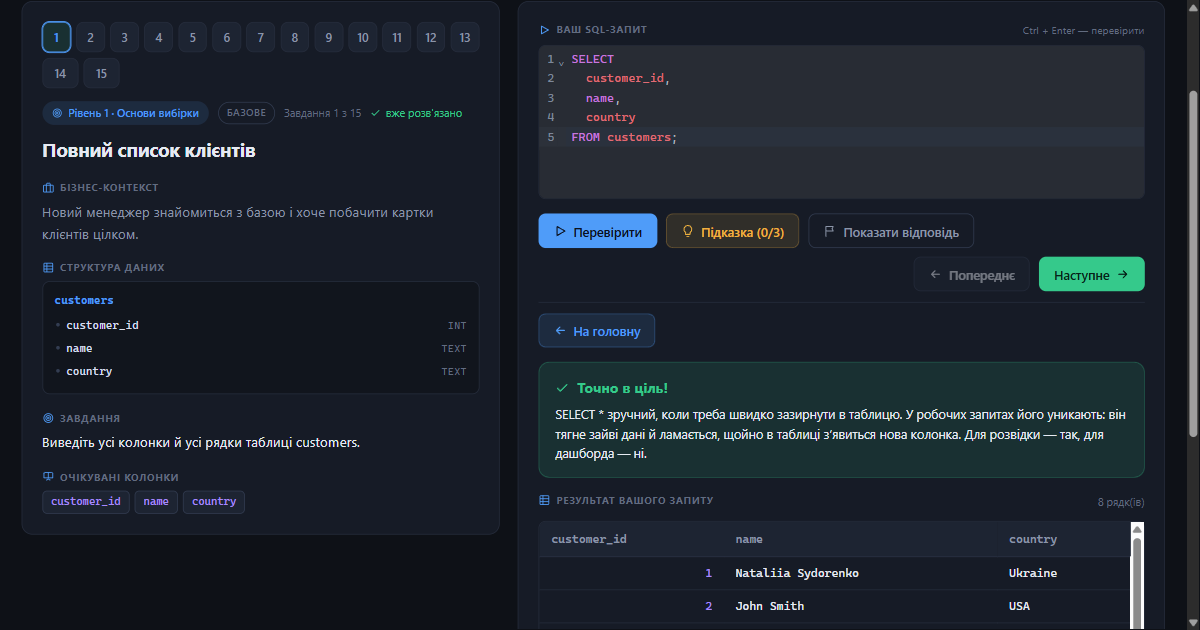
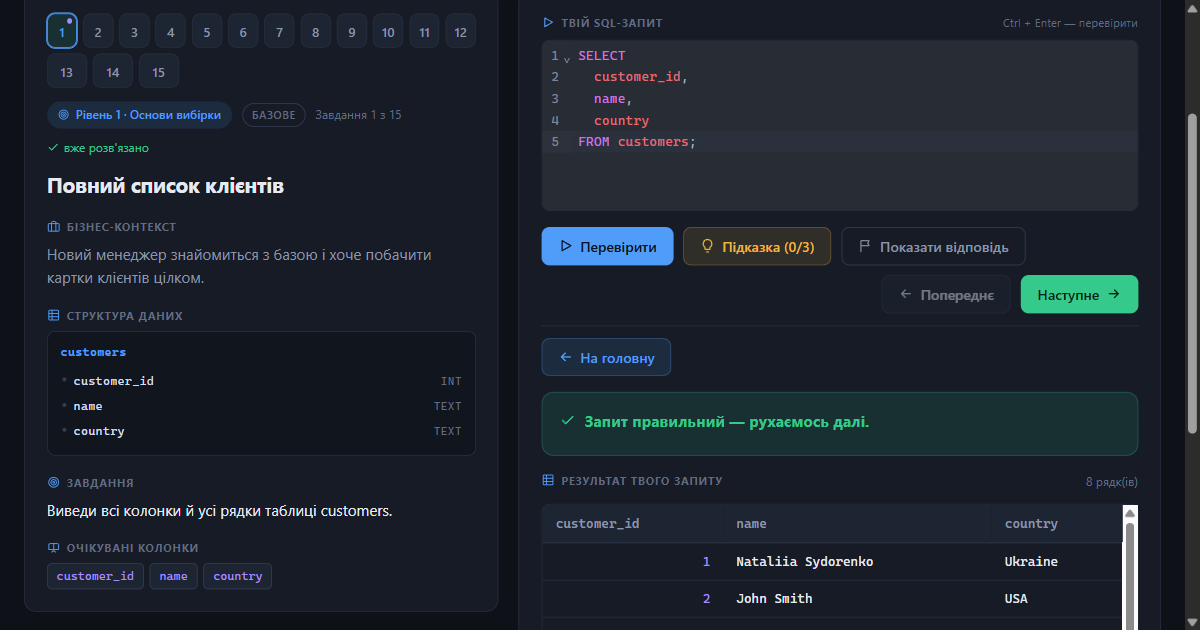
README і обкладинка приведені до поточного стану
Прибрано «пояснення після кожної відповіді»: після перевірки тренажер
показує лише вердикт, а розбір відкриває кнопка «Показати відповідь».
Екран завершення рівня перейменовано на «Ти тепер вмієш».

Дописано те, чого в README не було: пісочниця (її не згадували взагалі),
кнопка «Виконати запит» у теорії, приклад на кожну конструкцію з назви
теми й редагування нотатки просто в списку.

og-cover.png перезнято: на старому скриншоті був підпис «ВАШ SQL-ЗАПИТ»
і абзац пояснення під «Точно в ціль!» — обидва вже не відповідають UI.

diff --git a/README.md b/README.md
@@ -8,7 +8,7 @@
 
 ## Про тренажер
 
-Веб-тренажер для практики SQL: 125 завдань, розкладених по 8 рівнях, з бізнес-контекстом, трьома підказками та поясненням після кожної відповіді.
+Веб-тренажер для практики SQL: 125 завдань, розкладених по 8 рівнях, з бізнес-контекстом і трьома підказками. Після перевірки тренажер демонструє вердикт — правильно чи ні. У разі потреби варіант правильний із поясненням можна переглянути клікнувши кнопку «Показати відповідь».
 
 Запити виконуються справжнім **PostgreSQL** прямо в браузері (через [PGlite](https://pglite.dev), скомпільований у WebAssembly). Це не емуляція й не спрощений діалект, а той самий Postgres, який використовують у реальних проєктах: з `DATE_TRUNC`, `EXTRACT`, віконними функціями та його ж повідомленнями про помилки.
 
@@ -36,7 +36,11 @@
 | 8      | Аналітичні кейси       | `WITH`, `DATE_TRUNC`, `COUNT`, `DISTINCT`, `FILTER`, `LAG`, `NTILE`                         |
 
 Кожен рівень супроводжує сторінка теорії з тими самими конструкціями: короткий підсумок,
-кілька прикладів SQL на реальних даних і типові пастки. Тем стільки ж, скільки рівнів, — вісім.
+приклади SQL на реальних даних і типові пастки.
+
+Кожна конструкція, названа в заголовку теми, має власний приклад, а поруч із кожним прикладом
+є кнопка «Виконати запит»: вона переносить його в пісочницю й виконує, тож результат
+видно на справжніх даних.
 
 Всередині кожного рівня складність зростає за однаковою схемою: **базові завдання → середні →
 комплексні**. Тип показано позначкою на картці завдання.
@@ -51,11 +55,13 @@
 
 Тренажер починається з екрана вибору рівня. Усі вісім рівнів відкриті одразу, тому можна перейти до потрібної теми, а не проходити їх послідовно. Після вибору відкриваються лише завдання цього рівня. Повернутися до списку можна будь-коли кнопкою в шапці.
 
-Картка рівня показує відсоток виконання, а детальна статистика доступна в дашборді. Написаний, але ще не перевірений SQL зберігається окремо для кожного завдання, тому повернення до нього (навіть після перезавантаження сторінки) не стирає чернетку.
+Картка рівня показує відсоток виконання, а детальна статистика доступна в дашборді. Написаний, але ще не перевірений SQL зберігається окремо для кожного завдання, тому можливе повернення до нього навіть після перезавантаження сторінки.
 
-Кнопка «Мій прогрес» відкриває дашборд зі статистикою: скільки завдань уже розв'язано, де ви зупинилися минулого разу (із кнопкою «Продовжити»), які теми вже освоєні, у яких конструкціях виникає найбільше помилок — біля них є кнопка «потренувати», що веде просто до потрібного завдання, — і які завдання варто повторити. Тема вважається освоєною, лише коли розв'язані всі її завдання рівня, тож відмітки з'являються не одразу.
+Кнопка «Пісочниця» в шапці відкриває редактор: та сама база, будь-який запит, без завдання й перевірки. Саме туди веде «Виконати запит» зі сторінки теорії.
 
-Наприкінці рівня екран «Ви тепер вмієте» перелічує здобуті вміння — відмітка стоїть лише там, де тема відпрацьована повністю.
+Кнопка «Мій прогрес» відкриває дашборд зі статистикою: скільки завдань уже розв'язано, де ви зупинилися минулого разу (із кнопкою «Продовжити»), які теми вже освоєні, у яких конструкціях виникає найбільше помилок — біля них є кнопка «потренувати», що веде просто до потрібного завдання, — і які завдання варто повторити. Тема вважається освоєною, лише коли розв'язані всі її завдання рівня.
+
+Наприкінці рівня екран «Ти тепер вмієш» перелічує здобуті вміння — відмітка стоїть лише там, де тема відпрацьована повністю.
 
 ## Структура бази даних
 
@@ -77,6 +83,9 @@
 нотатки та чернетки зберігаються у Local Storage.
 
 Якщо очистити дані браузера або відкрити тренажер на іншому пристрої, прогрес почнеться з нуля.
+
+Нотатку до завдання можна написати під самим завданням, а потім виправити в списку на
+екрані «Мої нотатки» — текст там редагується на місці.
 
 Скинути все можна й самостійно: кнопка «Очистити» на дашборді стирає прогрес, історію спроб і
 чернетки. Нотатки також можна видалити — як кожну окремо, так і всі разом через кнопку
